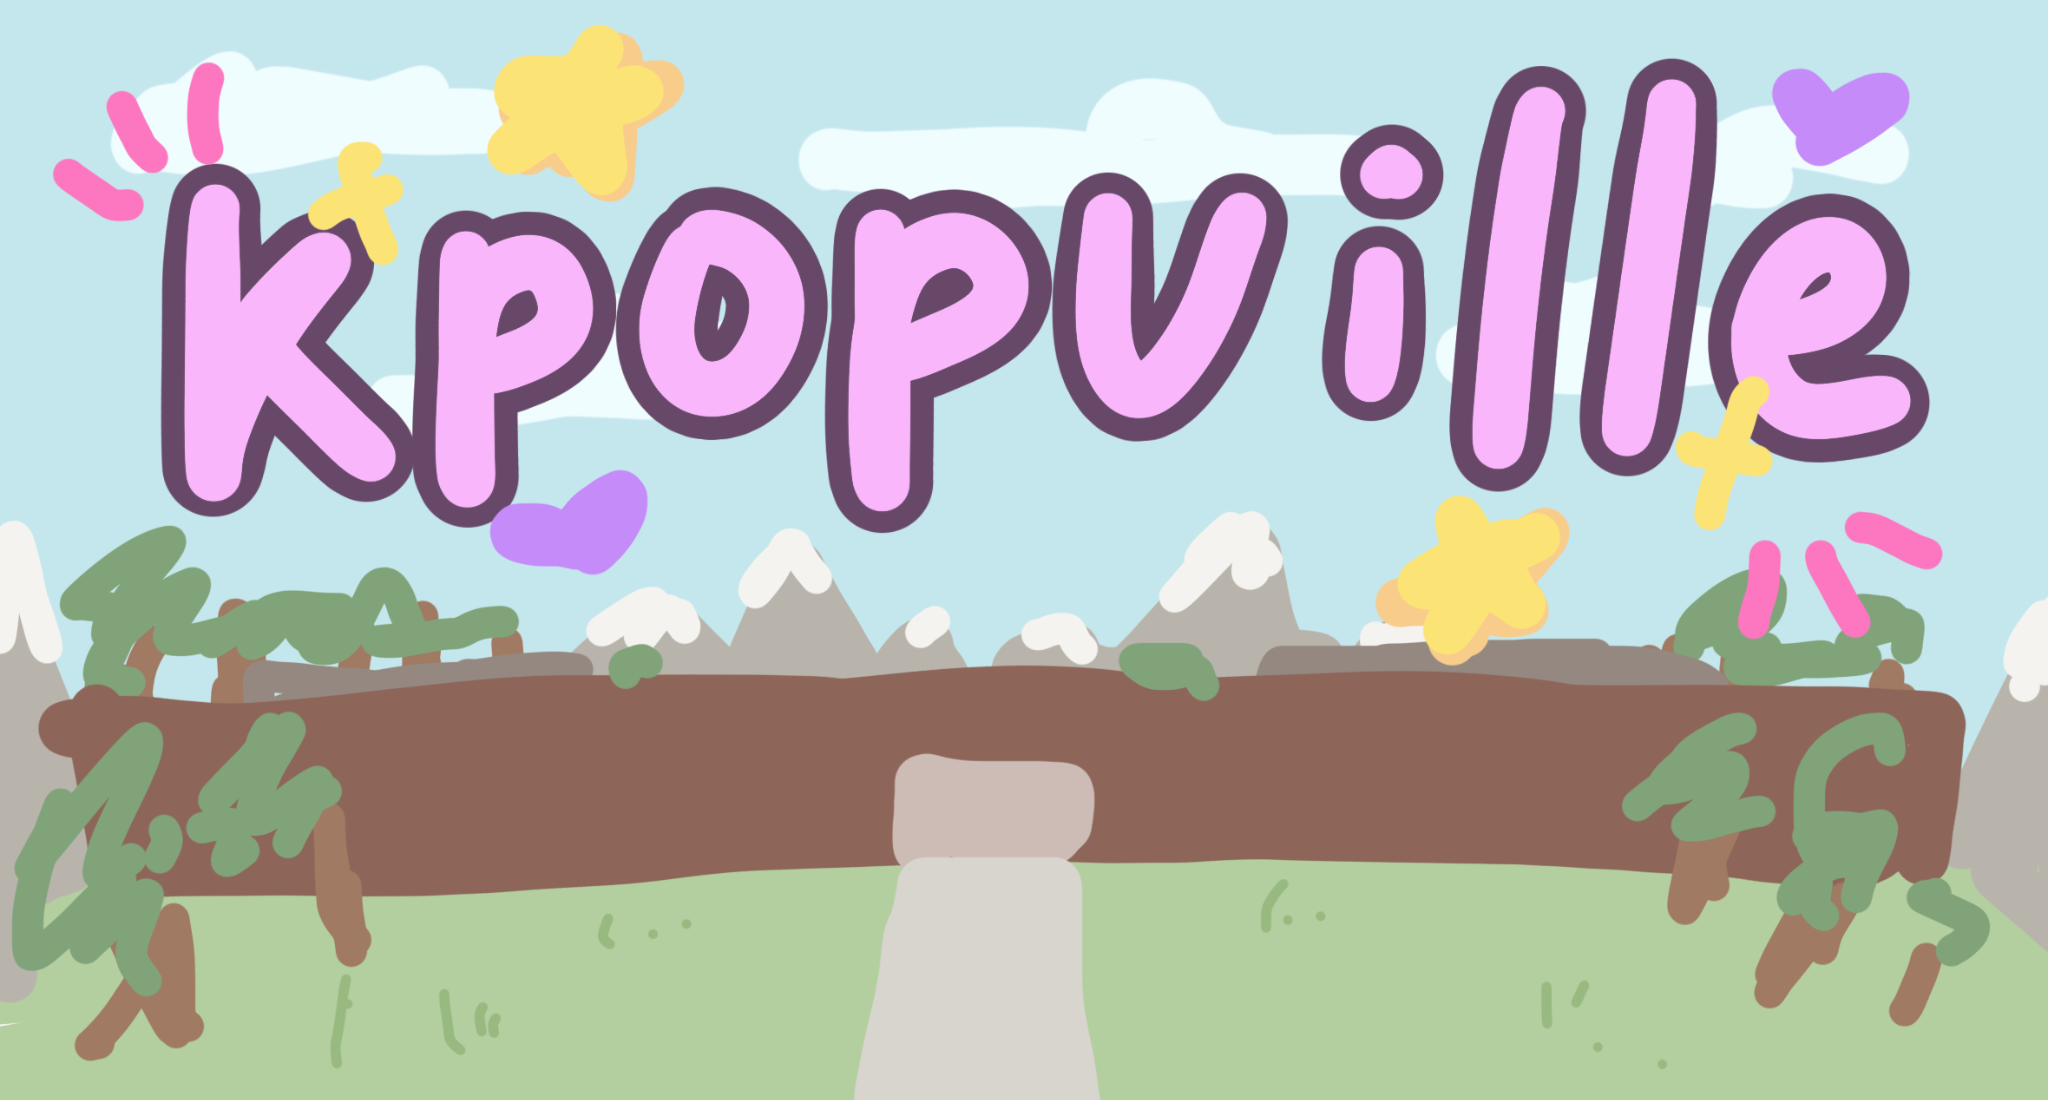
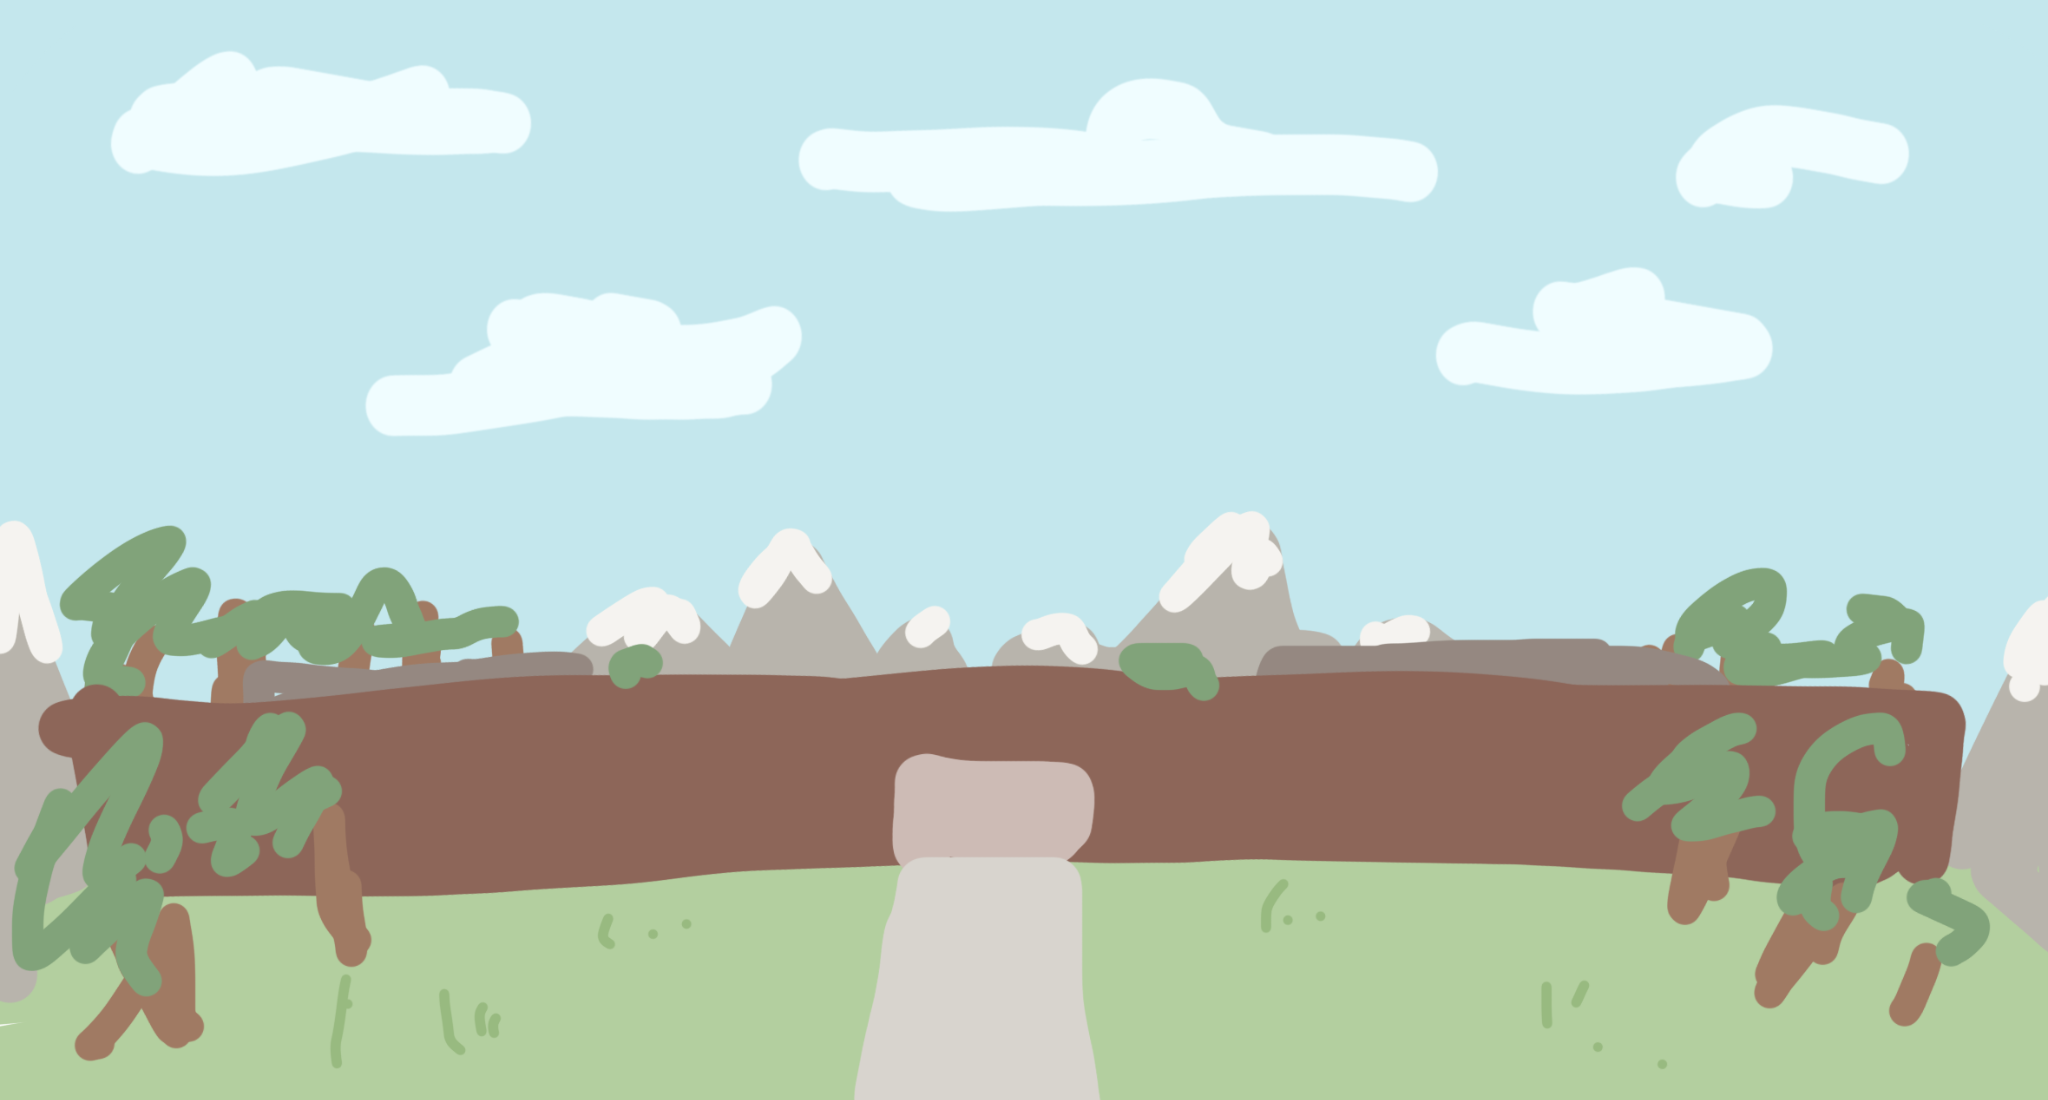
Add files via upload

Changed region(s): [[0.0312, 0.0, 0.9688, 0.6182], [0.8438, 0.4636, 0.9688, 0.5873]]

diff --git a/index.html b/index.html
@@ -523,7 +523,7 @@ if(state.scene==='title'){center();add(tag('wowza'),el('h1','big','Welcome to Kp
 else if(state.scene==='intro'){showDonation();}
 else if(state.scene==='choose'){state.scene='town-square';render();}
 else if(state.scene==='town-square'){showTownSquare()}
-else if(state.scene==='arrival'){center();add(tag('Chapter 1: A new address'),stage('KPOPVILLE','DRAW THE CITY HERE'),panel('NARRATOR',`After a very loud argument in Central Plaza, you chose ${state.group}. The group is ready to take you to their house.`,[['Explore Kpopville',()=>go('map')]]));}
+else if(state.scene==='arrival'){center();add(tag('Chapter 1: A new address'),imageStage('kpopville-chapter1.png','Kpopville exterior with the Kpopville sign'),panel('NARRATOR',`After a very loud argument in Central Plaza, you chose ${state.group}. The group is ready to take you to their house.`,[['Explore Kpopville',()=>go('map')]]));}
 else if(state.scene==='map'){
 center();add(el('p','map-caption','CLICK A NEIGHBORHOOD TO ENTER IT'));
 let m=el('div','worldmap');let img=document.createElement('img');img.src='kpopville-map.png';img.alt='Your hand-drawn Kpopville map';m.append(img);
